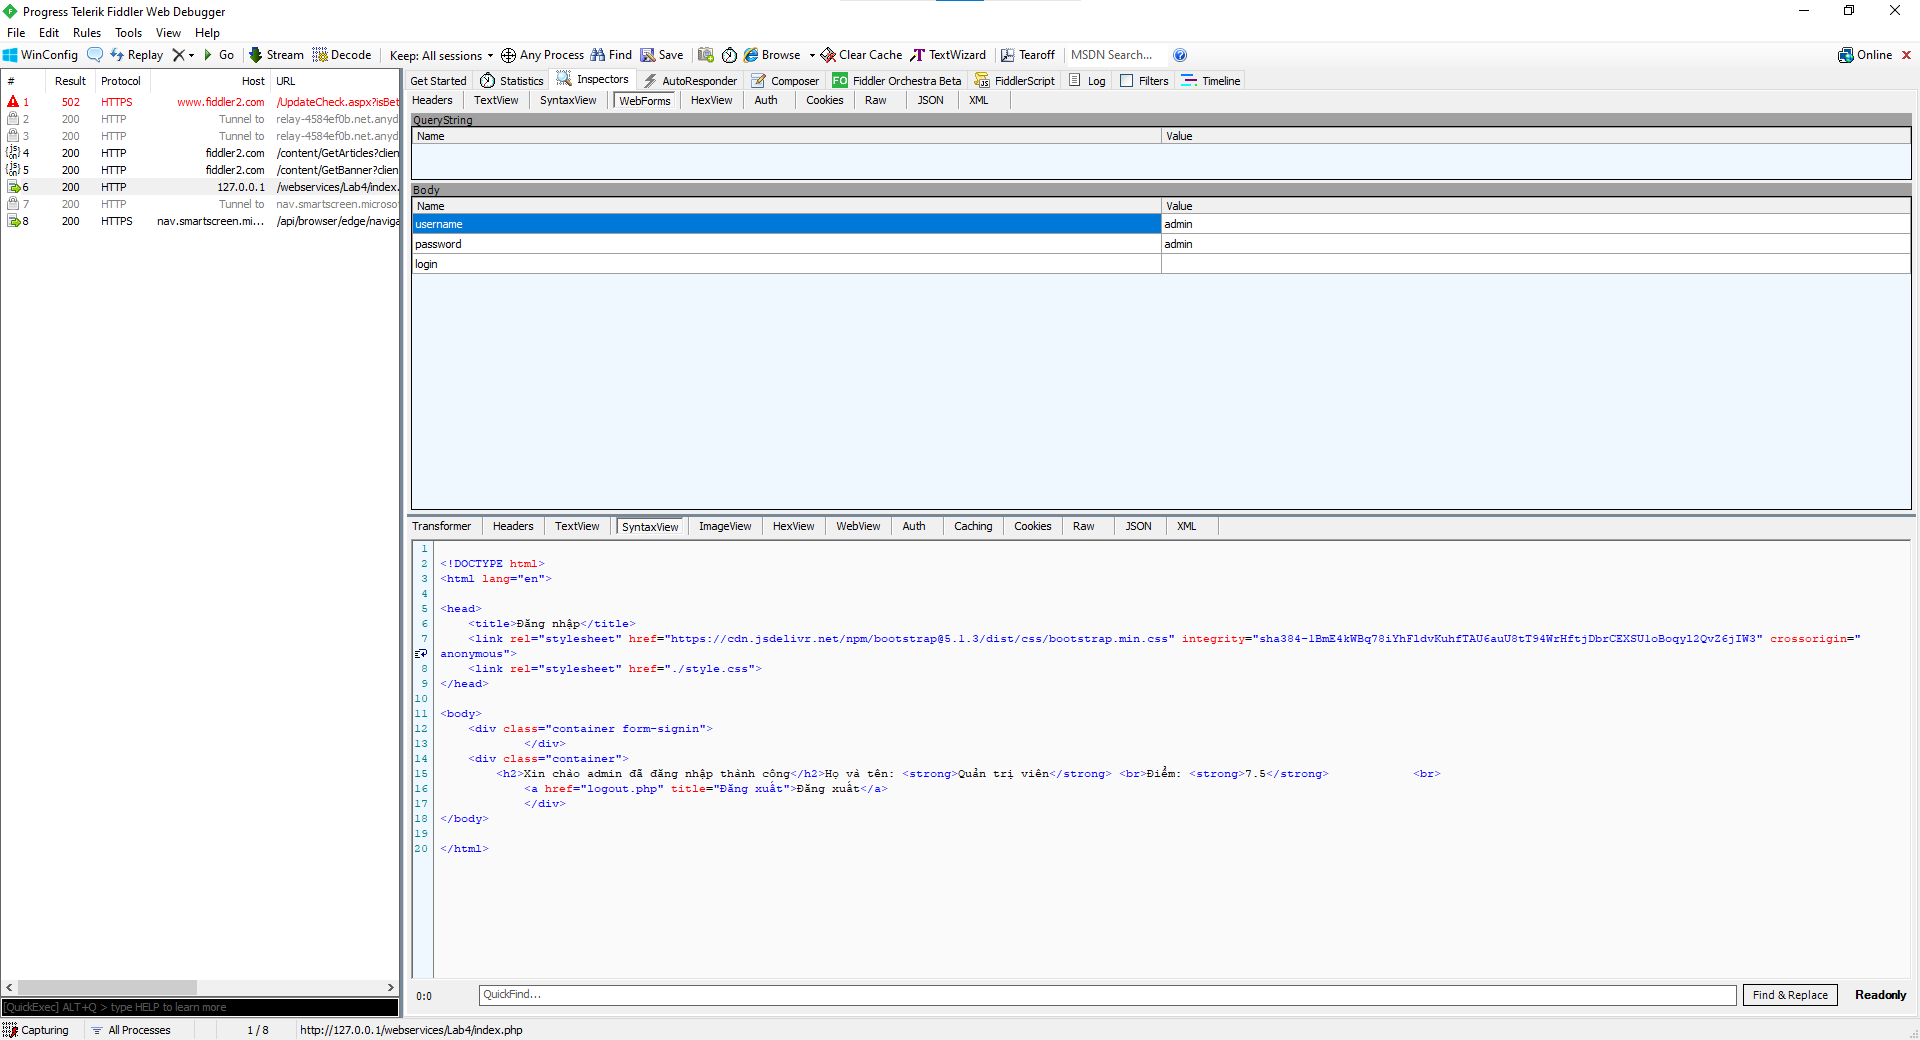
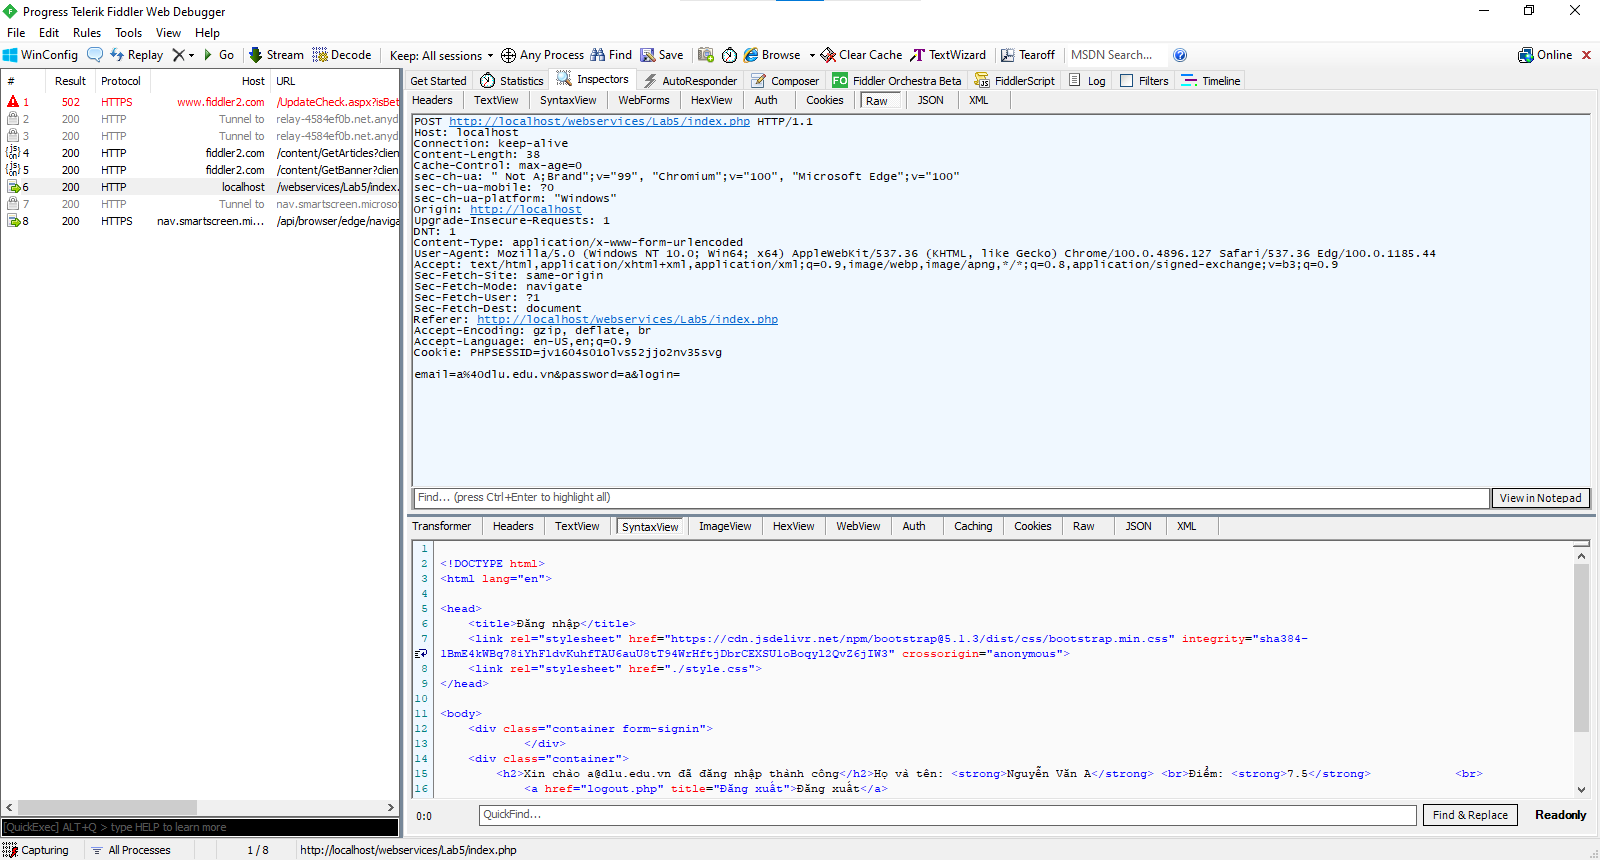
Upload Lab5

diff --git a/Lab5/style.css b/Lab5/style.css
@@ -1,0 +1,54 @@
+body {
+    padding-top: 40px;
+    padding-bottom: 40px;
+    background-color: #ADABAB;
+}
+
+.form-signin {
+    max-width: 330px;
+    padding: 15px;
+    margin: 0 auto;
+    color: #017572;
+}
+
+.form-signin .form-signin-heading,
+.form-signin .checkbox {
+    margin-bottom: 10px;
+}
+
+.form-signin .checkbox {
+    font-weight: normal;
+}
+
+.form-signin .form-control {
+    position: relative;
+    height: auto;
+    -webkit-box-sizing: border-box;
+    -moz-box-sizing: border-box;
+    box-sizing: border-box;
+    padding: 10px;
+    font-size: 16px;
+}
+
+.form-signin .form-control:focus {
+    z-index: 2;
+}
+
+.form-signin input[type="email"] {
+    margin-bottom: -1px;
+    border-bottom-right-radius: 0;
+    border-bottom-left-radius: 0;
+    border-color: #017572;
+}
+
+.form-signin input[type="password"] {
+    margin-bottom: 10px;
+    border-top-left-radius: 0;
+    border-top-right-radius: 0;
+    border-color: #017572;
+}
+
+h2 {
+    text-align: center;
+    color: #017572;
+}

diff --git a/Lab5/index.php b/Lab5/index.php
@@ -1,0 +1,70 @@
+<?php
+ob_start();
+session_start();
+?>
+
+<!DOCTYPE html>
+<html lang="en">
+
+<head>
+    <title>Đăng nhập</title>
+    <link rel="stylesheet" href="https://cdn.jsdelivr.net/npm/bootstrap@5.1.3/dist/css/bootstrap.min.css" integrity="sha384-1BmE4kWBq78iYhFldvKuhfTAU6auU8tT94WrHftjDbrCEXSU1oBoqyl2QvZ6jIW3" crossorigin="anonymous">
+    <link rel="stylesheet" href="./style.css">
+</head>
+
+<body>
+    <div class="container form-signin">
+        <?php
+        $msg = "";
+        unset($_SESSION["valid"]);
+
+        $users = array(
+            "a@dlu.edu.vn" => array("password" => "a", "fullname" => "Nguyễn Văn A", "score" => 7.5),
+            "b@dlu.edu.vn" => array("password" => "b", "fullname" => "Trần An Bình", "score" => 10)
+        ); //Mảng kết hợp
+
+        if (isset($_POST["login"]) && !empty($_POST["email"]) && !empty($_POST["password"])) {
+            foreach ($users as $email => $info) {
+                if ($email == $_POST["email"] && $info["password"] == $_POST["password"]) {
+                    $_SESSION["fullname"] = $info["fullname"];
+                    $_SESSION["score"] = $info["score"];
+                    $_SESSION["valid"] = true;
+                    $_SESSION["timeout"] = time();
+                    $_SESSION["email"] = $email;
+                }
+            }
+            if (empty($_SESSION["valid"])) { // Đăng nhập không thành công
+                $_SESSION["valid"] = false;
+                $msg = "Sai tên đăng nhập hoặc mật khẩu";
+            }
+        }
+        ?>
+    </div>
+    <div class="container">
+        <?php
+        if (empty($_SESSION["valid"])) {
+        ?>
+            <h2>Nhập địa chỉ thư điện tử và mật khẩu</h2>
+
+            <form class="form-signin" role="form" action="<?php echo htmlspecialchars($_SERVER["PHP_SELF"]); ?>" method="POST">
+                <h4 class="form-signin-heading"><?php echo $msg; ?></h4>
+                <input type="email" class="form-control" name="email" placeholder="Nhập địa chỉ thư điện tử" required autofocus>
+                <br>
+                <input type="password" class="form-control" name="password" placeholder="Nhập mật khẩu" required>
+                <button class="btn btn-lg btn-primary btn-block" type="submit" name="login">Đăng nhập</button>
+            </form>
+        <?php
+        } else if ($_SESSION["valid"]) {
+            echo "<h2>Xin chào " . $_SESSION["email"] . " đã đăng nhập thành công</h2>";
+            echo "Họ và tên: <strong>" . $_SESSION['fullname'] . "</strong> <br>";
+            echo "Điểm: <strong>" . $_SESSION['score'] . "</strong>";
+        ?>
+            <br>
+            <a href="logout.php" title="Đăng xuất">Đăng xuất</a>
+        <?php
+        }
+        ?>
+    </div>
+</body>
+
+</html>

diff --git a/Lab5/logout.php b/Lab5/logout.php
@@ -1,0 +1,10 @@
+<?php
+
+session_start();
+unset($_SESSION["email"]);
+unset($_SESSION["password"]);
+unset($_SESSION["fullname"]);
+unset($_SESSION["score"]);
+unset($_SESSION["valid"]);
+
+header('Refresh: 2; URL = index.php');

diff --git a/Lab5/README.md b/Lab5/README.md
@@ -1,0 +1,9 @@
+# Bài thực hành số 4
+
+![](Images/localhost.png)
+
+![](Images/localhost_1.png)
+
+![](Images/localhost_2.png)
+
+![](Images/localhost_3.png)
